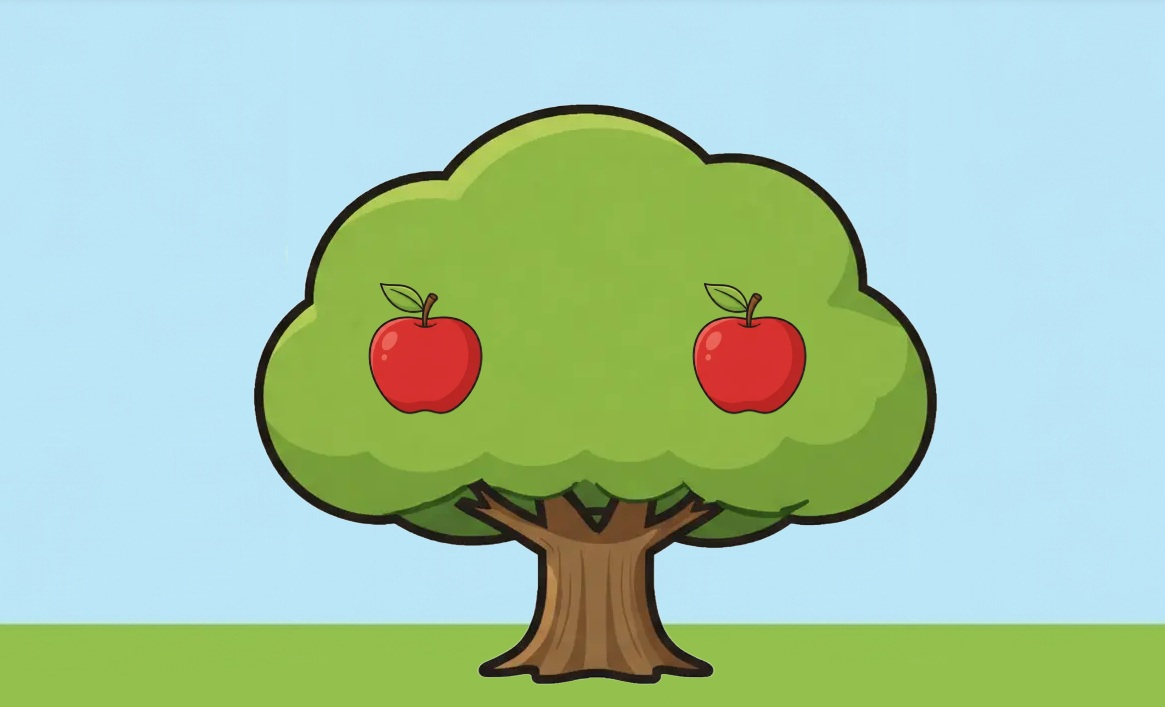
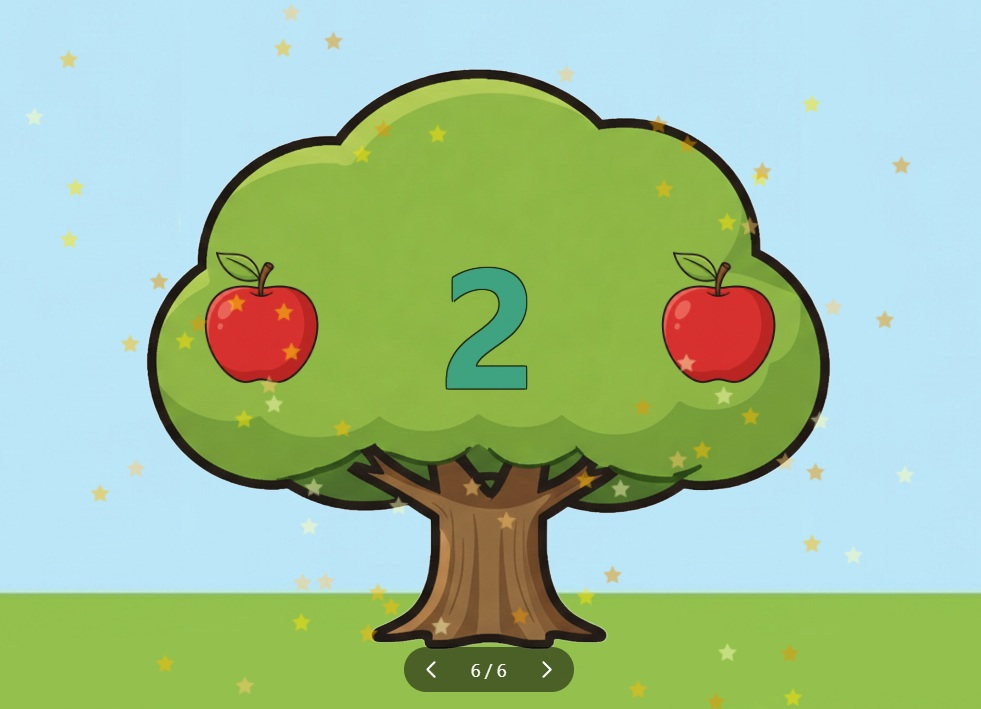
Add story PDF, instructions component, and update title
Add downloadable PDF and replace inline modal instructions with a reusable component. Files added/changed:
- Added public/cuentos/Arboles-y-manzanas-el-numero-2.pdf and updated public/cuentos/arboles-y-manzanas.jpg
- Added src/components/actividades/cuentos/StoryInstructionsContent.tsx with activity instructions and tip box
- Updated src/components/actividades/cuentos/StoryPageTemplate.tsx to use PdfButton and StoryInstructionsContent (removed previous inline modal content)
- Updated src/data/actividades.ts to change the story title from "Parte 1" to "El número 2"

This consolidates modal content into a component, exposes a PDF download for the story, and updates the story metadata.

diff --git a/src/components/actividades/cuentos/StoryPageTemplate.tsx b/src/components/actividades/cuentos/StoryPageTemplate.tsx
@@ -2,8 +2,9 @@
 
 import { ReactNode, useState } from "react";
 import StoryPlayer from "@/components/story/StoryPlayer";
-import ActivityControlsText from "../ActivityControlsText";
 import ActivityInstructionsModal from "../ActivityInstructionsModal";
+import StoryInstructionsContent from "@/components/actividades/cuentos/StoryInstructionsContent";
+import { PdfButton } from "@/components/pildoras/ArticleComponents";
 import { validateStoryData } from "@/lib/validateStory";
 import type { StoryData } from "@/types/story";
 import FixedExitButton from "../FixedExitButton";
@@ -105,36 +106,14 @@ function StoryPageTemplateBase({
         );
     }
 
-    // Mostrar pantalla de finalización si el cuento ha sido completado
     return (
         <div className="pb-10">
             <FixedExitButton backHref={backHref} />
-            <ActivityInstructionsModal title="Cómo jugar a Cuentos Interactivos">
-                <section>
-                    <h3 className="text-xl font-semibold text-primary mb-3">¿En qué consiste?</h3>
-                    <p>
-                        En este cuento, el alumnado sigue la historia y participa en pequeñas acciones para resolver
-                        situaciones mientras avanza por la narración.
-                    </p>
-                </section>
-
-                <section>
-                    <h3 className="text-xl font-semibold text-primary mb-3">Cómo participar</h3>
-                    <ul className="list-disc list-inside space-y-2 ml-4">
-                        <li>Lee en voz alta o deja que el alumnado lea cada escena</li>
-                        <li>Haz que anticipen qué ocurrirá antes de avanzar</li>
-                        <li>Refuerza estrategias y lenguaje matemático tras cada acción</li>
-                    </ul>
-                </section>
-
-                <div className="bg-blue-50 border-l-4 border-blue-500 p-4 rounded">
-                    <p className="text-blue-900">
-                        <strong>Sugerencia:</strong> En {storyTitle}, pregunta al alumnado qué pistas visuales les ayudaron
-                        a decidir cada respuesta.
-                    </p>
-                </div>
-
-                <ActivityControlsText />
+            <ActivityInstructionsModal>
+                <PdfButton
+                    filePath={`/cuentos/Arboles-y-manzanas-el-numero-2.pdf`}
+                    label={storyTitle ? `${storyTitle}` : "Descargar el cuento"} />
+                <StoryInstructionsContent />
             </ActivityInstructionsModal>
 
             {gameCompleted ? (

diff --git a/src/components/actividades/cuentos/StoryInstructionsContent.tsx b/src/components/actividades/cuentos/StoryInstructionsContent.tsx
@@ -1,0 +1,30 @@
+import { ArticleSection, TipBox } from "@/components/pildoras/ArticleComponents";
+import ActivityControlsText from "../ActivityControlsText";
+
+export default function StoryInstructionsContent() {
+    return (
+        <>
+            <ArticleSection title="¿En qué consiste esta actividad?">
+                <p className="mb-3">
+                    Utiliza este recurso para acompañar la lectura en voz alta de un cuento que les ayudará a desarrollar su sentido numérico y su comprensión de la cantidad a través de la narración. Es perfecto para usar con la pizarra digital en grupos grandes, pero también se puede utilizar en tablets u ordenadores para trabajar individualmente o en grupos pequeños.
+                </p>
+            </ArticleSection>
+
+            <ArticleSection title="¿Cómo utilizar esta actividad en el aula?">
+                
+                <ul className="list-disc list-inside space-y-2 ml-4">
+                    <li>Lee en voz alta el cuento que puedes descargar desde aquí y sigue las indicaciones para preguntar a la clase o pasar de página</li>
+                    <li>A medida que vayas leyendo, avanza las páginas para hacer aparecer diferentes objetos, personajes o efectos</li>
+                    <li>Pasa a la siguiente página tocando la pantalla o presionando el Espacio, o ir hacia delante o hacia detrás con las flechas</li>
+                    <li>Al completar todas las páginas, podrás avanzar al siguiente capítulo o elegir el capítulo que deseas leer</li>
+                </ul>
+            </ArticleSection>
+
+            <TipBox>
+                    Utiliza las escenas para <strong>fomentar la participación del alumnado</strong>, haciendo que te den las respuestas antes de avanzar
+            </TipBox>
+
+            <ActivityControlsText />
+        </>
+    );
+}

diff --git a/src/data/actividades.ts b/src/data/actividades.ts
@@ -24,7 +24,7 @@ export const games: Game[] = [
     },
     {
         id: "arboles-y-manzanas-1",
-        title: "Árboles y manzanas. Parte 1",
+        title: "Árboles y manzanas. El número 2",
         image: "/cuentos/arboles-y-manzanas.jpg",
         area: "Aritmética",
         level: "Primeros pasos",